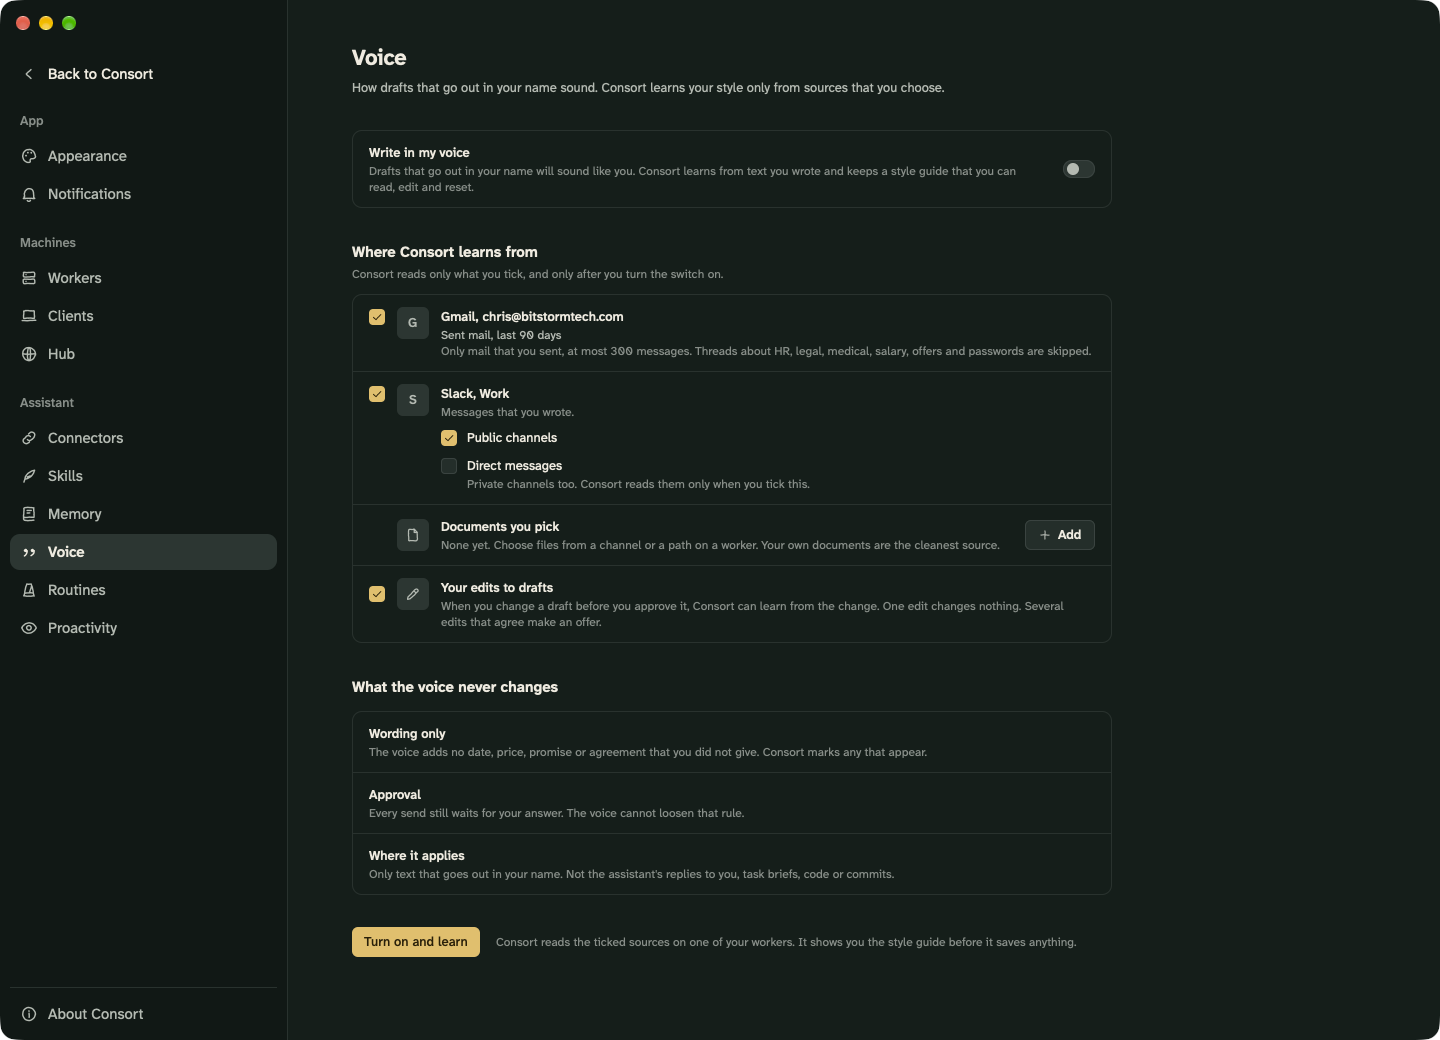
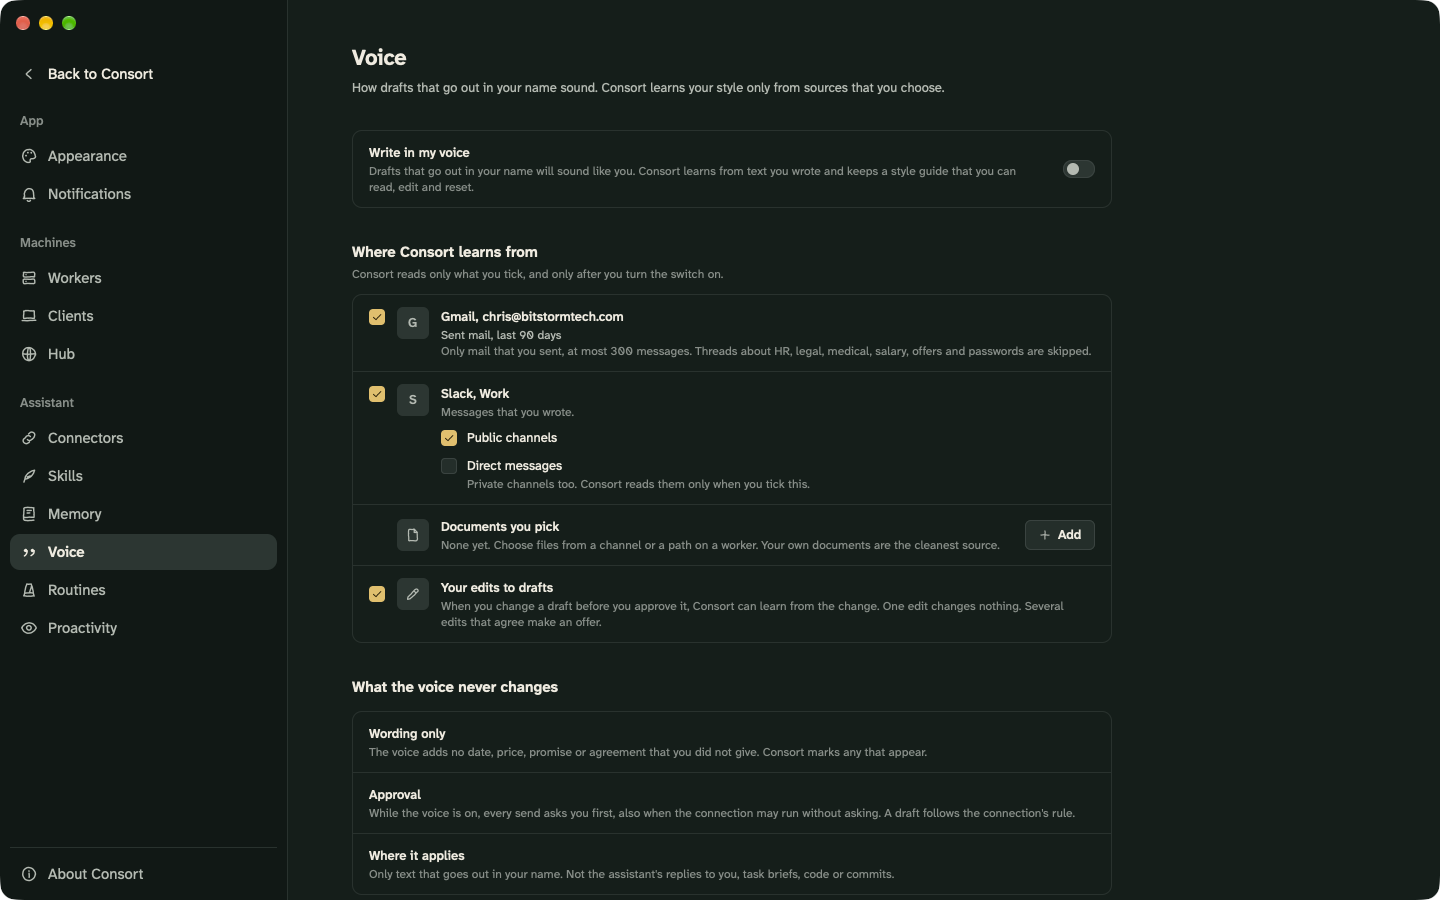
Summarize the overnight build and record the voice fix decisions
- docs/notes/overnight-2026-10-30.md: what was built, the checks, and
  what needs the user.
- The finish plan status, the voice fix decisions, and the Settings >
  Voice screenshot with the new Approval text.

diff --git a/docs/notes/overnight-2026-10-30.md b/docs/notes/overnight-2026-10-30.md
@@ -1,0 +1,55 @@
+# Overnight build, 2026-10-30
+
+You asked for phases 2 to 5 of [FINISH-PLAN.md](../FINISH-PLAN.md), complete as specced, plus a proactive assistant and "Speak in your voice". This page is the summary for the morning. Every phase has its own notes file with the details, the differences from the design and the decisions. The decisions are also rows in [DECISIONS.md](../DECISIONS.md).
+
+## What is built
+
+| Phase | What | Notes |
+|---|---|---|
+| 2 | Routines (Channel panel tab, run history, the routine dialog with six schedule presets, Settings > Routines, skipped runs) and memory (Memory tab, note editor with the stale-write check, Settings > Memory with version history, restore and Recently deleted, the "memory saved" line) | [phase2.md](phase2.md) |
+| 3 | Settings > Hub (status, storage, backups with a schedule, `consort hub restore`), Settings > Clients (Revoke, Pair a new app with a QR code), desktop notifications with a Dock badge and Settings > Notifications | [phase3.md](phase3.md) |
+| 4 | Threads, reactions, Cmd+K search of the hub, New task, task delete and retry, the full output or diff of a task item, one channel settings dialog, the simple New channel dialog, groups, the task thread in bubbles, About, archived tasks. Dictation uses the system shortcut | [phase4.md](phase4.md) |
+| 4b | The proactive assistant (see below) with the guided start of a new channel, quick-reply chips and the writing bubble | [phase4b.md](phase4b.md), [PROACTIVITY-PLAN.md](../PROACTIVITY-PLAN.md) |
+| 4c | Write in my voice (see below) | [phase4c.md](phase4c.md), [VOICE-PLAN.md](../VOICE-PLAN.md) |
+| 5 | `consort worker install` (launchd, systemd, Task Scheduler), install scripts, hub deployment (systemd, Docker, Caddy for TLS), a release workflow, a macOS `.app` bundle, app updates, the three-step Add worker dialog, a client cache on disk, and the app's state when the hub is offline | [phase5-install.md](phase5-install.md), [phase5-cache.md](phase5-cache.md) |
+| Smaller items | Composio status, a logo cache, private and ssh skill repos, archive and npm plugin sources, the skill cache prune, expired Claude logins, doc fixes, time limit tests | [smaller-items.md](smaller-items.md) |
+
+Also: the top tint is much darker at the mark and the pill, as you asked ([screenshot](../screenshots/top-tint-darker-dark.png)), the checks are faster (`scripts/check.sh`, nextest), and a flaky heartbeat test is fixed.
+
+## The proactive assistant
+
+Research: [research/proactivity.md](../research/proactivity.md) (Duet, Grok Bot, OpenClaw, OpenAI dots). Decision: [ADR 0013](../adr/0013-the-assistant-is-proactive-within-limits.md).
+
+- A level per channel: Off, Quiet (default), Normal (Tutti's default), Eager.
+- Check-ins (Tutti every 3 hours) read the memory note `check-in.md`. The hub skips the model when nothing changed. Silence is the default.
+- The morning brief (weekdays 07:30), stale-task nudges (once), follow-ups that the assistant sets, a read-only research pass with offers (Eager only).
+- Quiet hours 21:00 to 07:00, snooze, Pause all, at most 3 notifications a day, a daily turn budget, back-off after silent check-ins, and a log with Useful and Too noisy.
+- The hub, not the prompt, enforces the limits. A review found ways around them; all 15 findings are fixed ([review-fixes.md](review-fixes.md)).
+
+## Write in my voice
+
+Research: [research/speak-in-your-voice.md](../research/speak-in-your-voice.md). No public source documents Duet's toggle, so the design combines Gmail, Superhuman, Grammarly, Claude styles, dots and OpenClaw. Decision: [ADR 0014](../adr/0014-the-assistant-writes-in-the-users-voice-with-consent.md).
+
+- Off by default. You choose the sources. A task learns a style guide, `voice.md`, and you approve it before it is saved.
+- Only text that goes out in your name uses it. The approval card says which voice it used, flags dates, amounts and agreements that you did not ask for, and keeps Allow off until you check them. Edit on the card teaches the voice.
+- While the voice is on, every send asks you, whatever the connection's rule. Only your own words count as the request. The hub owns `voice.md` and your rules.
+- A review found 16 problems; all are fixed ([voice-fixes.md](voice-fixes.md)). Left open there: Edit of Slack `blocks`, a "sent mail only" check for Gmail sources, and a stricter harness mode for voice turns.
+
+## Checks
+
+- macOS: the full `scripts/check.sh` passes on main.
+- Windows (bigboi): three runs. `cargo test --workspace` passes (1926 tests in the third run). Fixes from those runs are merged ([windows-checks.md](windows-checks.md)).
+- Screenshots of every new screen are in `docs/screenshots/` (`phase2-*`, `phase3-*`, `phase4-*`, `phase4b-*`, `phase4c-*`, `phase5-*`, `windows-*`).
+
+## What needs you
+
+1. **Live runs with real models and accounts.** No real model ran tonight; every test uses the fake worker and fake connectors. Try: a check-in and the morning brief in Tutti, a new channel's guided start, "Write in my voice" with your sent mail, and a real draft card.
+2. **Apple Developer ID** for signing and notarizing the macOS app (the secret names are in `docs/install.md`).
+3. **The final domain.** The bundle IDs are `dev.consort.worker` and `dev.consort.desktop`, and the repo slug for releases is `watzon/consort`. Both are hard to change after users install.
+4. **A real `consort worker install`** on each system (tonight only `--dry-run` ran; nothing was installed on any machine).
+5. **The earlier live checks** in FINISH-PLAN.md: the Composio run, real sign-ins, skills at the model level, the extras switches.
+6. **Light mode.** Tonight's screenshots are dark only.
+
+## Housekeeping
+
+The agents worked in git worktrees under `~/Projects/personal/consort-wt/`. Every branch is merged into main. The worktrees hold large build folders; remove them with `git worktree remove <path>` when you no longer need them. Nothing was pushed: the repo has no remote.

diff --git a/docs/DECISIONS.md b/docs/DECISIONS.md
@@ -671,3 +671,21 @@ The user was away during the first build, from 2026-10-29. These are the choices
 | 665 | Desktop | Sources while off stay in the app until Turn on and learn | Unticking everything must not bring the defaults back | Yes |
 | 666 | Desktop | A flagged body is a selectable copy over an underlined copy | GPUI's selectable text has no highlights | Yes |
 | 667 | Desktop | Edit fields show only in the card where Edit started | One text input entity cannot draw in two views | Yes |
+| 668 | Hub | While the voice is on, every send asks, whatever the connection's rule and earlier allows; a draft keeps the rule unless it has flags | The card is the only place where the user sees text that goes out in their name | Yes |
+| 669 | Hub | A card that the hub forced to ask saves no allow, also on a late answer (`ConnectorCard.ask_rule`) | A forced card must not open the way for later calls | Yes |
+| 670 | Hub | The scan normalizes text and compares values (time, date, amount, phrase), not substrings | `$50` inside `$500` and `deal` inside `ideal` passed as "in the request" | Yes |
+| 671 | Hub | The request is only the user's own words (`task_requests`, user turn events, thread replies) | A brief or a forwarded text can quote the sender, who could whitelist their own commitments | Yes |
+| 672 | Hub | The scan reads every string of the arguments except recipients, IDs, URLs and timestamps | Text in `blocks` or nested bodies went out unscanned | Yes |
+| 673 | Hub | "Is a voice task" is a mark on the task (`voice_tasks`); Learn again, Turn off and Reset stop earlier voice tasks | A replaced voice task lost its limits | Yes |
+| 674 | Hub | The hub owns `voice.md`; sessions cannot write or delete it; rule changes go through `propose_voice_rule` with 3 checked pairs | "3 agreeing edits" and "the user approves every change" held only in the prompt | Yes |
+| 675 | Hub | The user's rules are `VoiceSettings.user_rules`; the hub renders the `(you)` marks | A session could forge or move a mark | Yes |
+| 676 | Hub | Do it merges the user's rules of that moment | A rule that the user wrote while the offer waited was lost | Yes |
+| 677 | Hub schema | Version 12 makes the voice tables with `IF NOT EXISTS` and adds `voice_tasks` and `task_requests` | Hubs at 11 from the empty version 10 had no voice tables | Yes |
+| 678 | Protocol | `approval.answer.checked_hash` must match `ConnectorCard::review_hash` | The tick was not bound to the text and flags that the user saw | Yes |
+| 679 | Hub | Voice offers follow the Tutti level; with Off the edits wait; `ask_decision` offers always follow the normal gate | A voice event let any offer skip the gate | Yes |
+| 680 | Hub | Voice events get turns of their own with only the voice tools, reading, asking and posting (`TurnKind::Voice`) | Draft text in the events can quote other people | Yes |
+| 681 | Hub | A voice task has only read tools, `suggest_memory` and `submit_for_review`, and never reads unchosen DMs or private channels | Consent per source, and raw text stays in the task | Yes |
+| 682 | Hub | Screening replaces `mailto:`, written-out addresses and bare domains, also in `sources:` and `learned:` | Links such as `evil.com/pay` passed into approved rules | Yes |
+| 683 | Hub | Draft pairs keep each body alone; a call with no card is a sent-unchanged pair | The filter missed mail with a subject and calls with no card | Yes |
+| 684 | Hub | Every copy of a draft goes after 90 days: pairs, card text, call arguments in sessions, voice task briefs | "Kept 90 days" held only for the pairs | Yes |
+| 685 | Desktop | The tick is kept per review hash; the Approval line of Settings > Voice says that every send asks | One rule in the hub and on the page | Yes |

diff --git a/docs/FINISH-PLAN.md b/docs/FINISH-PLAN.md
@@ -1,5 +1,7 @@
 # Plan: finishing the app
 
+Status on 2026-10-30: phases 1 to 5, 4b (proactivity) and 4c (voice) are built and merged, with the smaller items. Phases 6 and 7 wait. What is left needs the user: see [notes/overnight-2026-10-30.md](notes/overnight-2026-10-30.md).
+
 Status: the user approved phases 1 to 5 in this order on 2026-10-29. Phases 6 and 7 wait. Work starts with Paper designs for everything that is missing. Written on 2026-10-29 from a gap analysis that compared three things: what the design docs promise (about 200 items), what the code does today, and every open item in the E2E notes, the build notes and the plans. The user sets the order.
 
 ## Where things stand
